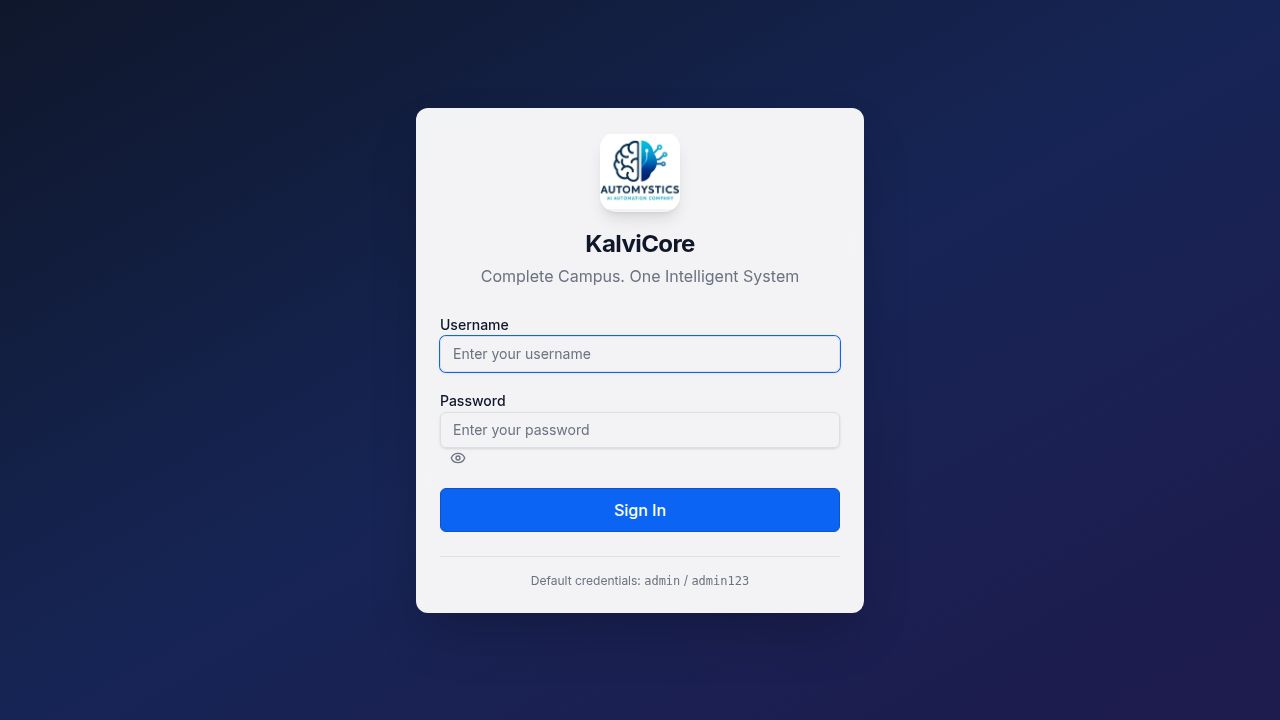
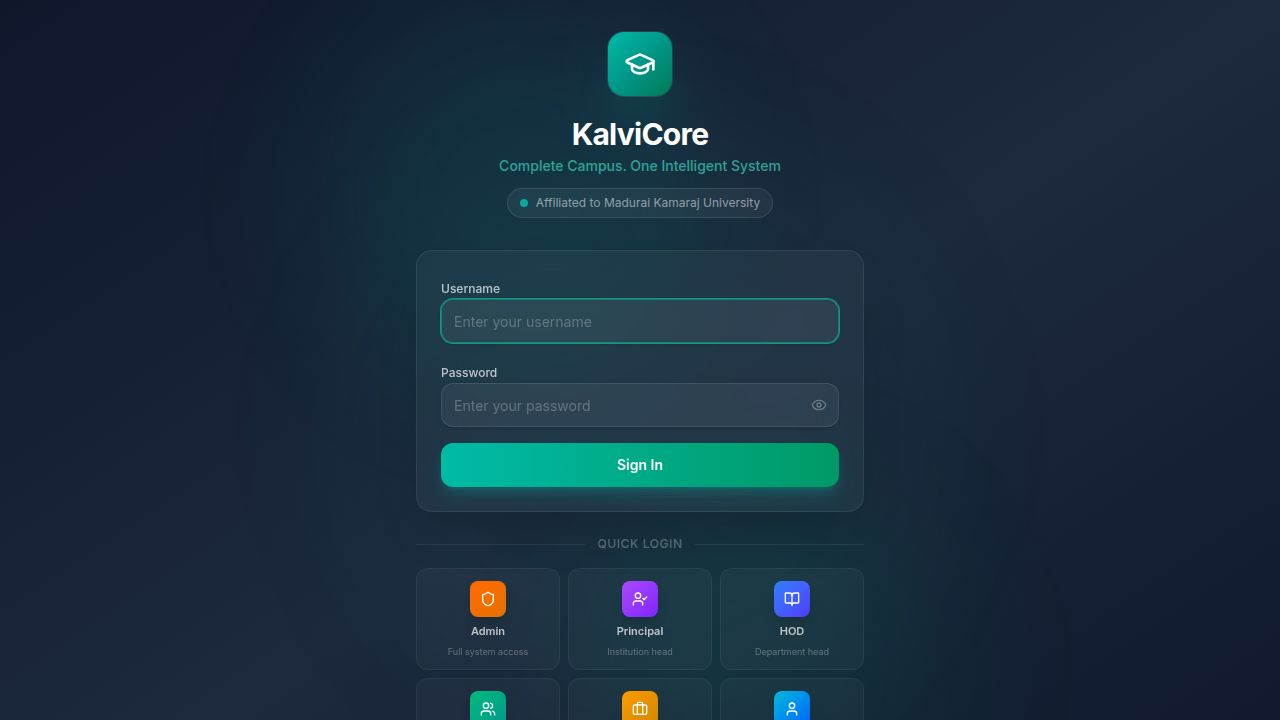
Update college data and redesign the login page with quick login options
Replace engineering departments with arts and science data, update course defaults, and redesign the login page with a modern theme and quick login buttons for various roles.

Replit-Commit-Author: Agent
Replit-Commit-Session-Id: 55929f3b-32f4-48da-ad8b-b4f1d5d6acb3
Replit-Commit-Checkpoint-Type: full_checkpoint
Replit-Commit-Event-Id: a6b4c6db-975b-451b-80cb-aeee288a433f
Replit-Commit-Screenshot-Url: https://storage.googleapis.com/screenshot-production-us-central1/61417559-a3bd-4674-b689-34205fc3aad4/55929f3b-32f4-48da-ad8b-b4f1d5d6acb3/BZeKmPF
Replit-Helium-Checkpoint-Created: true

diff --git a/artifacts/college-cms/src/pages/login.tsx b/artifacts/college-cms/src/pages/login.tsx
@@ -3,8 +3,16 @@ import { useAuth } from "@/contexts/auth";
 import { Button } from "@/components/ui/button";
 import { Input } from "@/components/ui/input";
 import { Label } from "@/components/ui/label";
-import { Card, CardContent, CardDescription, CardHeader, CardTitle } from "@/components/ui/card";
-import { GraduationCap, Loader2, Eye, EyeOff } from "lucide-react";
+import { GraduationCap, Loader2, Eye, EyeOff, Shield, BookOpen, Users, Briefcase, UserCheck, User } from "lucide-react";
+
+const DEMO_ACCOUNTS = [
+  { label: "Admin", username: "college_admin", password: "Admin@123", icon: Shield, color: "from-orange-500 to-amber-600", desc: "Full system access" },
+  { label: "Principal", username: "principal", password: "Principal@123", icon: UserCheck, color: "from-purple-500 to-violet-600", desc: "Institution head" },
+  { label: "HOD", username: "hod_cse", password: "Hod@123", icon: BookOpen, color: "from-blue-500 to-indigo-600", desc: "Department head" },
+  { label: "Faculty", username: "faculty_cse", password: "Faculty@123", icon: Users, color: "from-emerald-500 to-teal-600", desc: "Teaching staff" },
+  { label: "Staff", username: "office_staff", password: "Staff@123", icon: Briefcase, color: "from-amber-500 to-yellow-600", desc: "Office & security" },
+  { label: "Student", username: "student_cse", password: "Student@123", icon: User, color: "from-cyan-500 to-blue-600", desc: "Student portal" },
+];
 
 export default function LoginPage() {
   const { login } = useAuth();
@@ -13,6 +21,7 @@ export default function LoginPage() {
   const [showPassword, setShowPassword] = useState(false);
   const [error, setError] = useState("");
   const [loading, setLoading] = useState(false);
+  const [loadingRole, setLoadingRole] = useState<string | null>(null);
 
   const handleSubmit = async (e: React.FormEvent) => {
     e.preventDefault();
@@ -27,50 +36,123 @@ export default function LoginPage() {
     }
   };
 
+  const handleQuickLogin = async (account: typeof DEMO_ACCOUNTS[0]) => {
+    setError("");
+    setLoadingRole(account.label);
+    try {
+      await login(account.username, account.password);
+    } catch (err: any) {
+      setError(err.message || "Invalid credentials");
+    } finally {
+      setLoadingRole(null);
+    }
+  };
+
   return (
-    <div className="min-h-screen flex items-center justify-center bg-gradient-to-br from-slate-900 via-blue-950 to-indigo-950 p-4">
[1 lines of base64/hex data omitted]
-      <Card className="w-full max-w-md relative z-10 shadow-2xl border-0 bg-card/95 backdrop-blur">
-        <CardHeader className="text-center space-y-4 pb-2">
-          <div className="mx-auto w-20 h-20 rounded-2xl overflow-hidden shadow-lg">
-            <img src={`${import.meta.env.BASE_URL}logo.jpeg`} alt="Automystics Logo" className="w-full h-full object-contain" />
+    <div className="min-h-screen flex flex-col bg-gradient-to-br from-slate-900 via-slate-800 to-slate-900 relative overflow-hidden">
+      <div className="absolute inset-0">
+        <div className="absolute top-0 left-1/4 w-96 h-96 bg-teal-500/10 rounded-full blur-3xl" />
+        <div className="absolute bottom-0 right-1/4 w-96 h-96 bg-emerald-500/8 rounded-full blur-3xl" />
+        <div className="absolute top-1/2 left-1/2 -translate-x-1/2 -translate-y-1/2 w-[600px] h-[600px] bg-teal-600/5 rounded-full blur-3xl" />
+      </div>
+
+      <div className="relative z-10 flex-1 flex flex-col items-center justify-center px-4 py-8">
+        <div className="text-center mb-8">
+          <div className="inline-flex items-center justify-center w-16 h-16 bg-gradient-to-br from-teal-500 via-teal-600 to-emerald-700 rounded-2xl shadow-2xl shadow-teal-500/30 ring-1 ring-white/10 mb-5">
+            <GraduationCap className="w-8 h-8 text-white" />
           </div>
-          <div>
-            <CardTitle className="text-2xl font-bold">KalviCore</CardTitle>
-            <CardDescription className="text-base mt-1">Complete Campus. One Intelligent System</CardDescription>
+          <h1 className="text-3xl font-bold text-white tracking-tight">KalviCore</h1>
+          <p className="text-teal-300/60 text-sm font-medium mt-1">Complete Campus. One Intelligent System</p>
+          <div className="mt-3 inline-flex items-center gap-2 px-3 py-1.5 bg-white/5 rounded-full border border-white/10">
+            <span className="w-2 h-2 rounded-full bg-teal-400 animate-pulse" />
+            <span className="text-xs text-white/50">Affiliated to Madurai Kamaraj University</span>
           </div>
-        </CardHeader>
-        <CardContent className="pt-4">
-          <form onSubmit={handleSubmit} className="space-y-4">
-            {error && (
-              <div className="bg-destructive/10 text-destructive text-sm p-3 rounded-lg border border-destructive/20">
-                {error}
+        </div>
+
+        <div className="w-full max-w-md">
+          <div className="bg-white/[0.04] backdrop-blur-xl rounded-2xl border border-white/[0.08] shadow-2xl shadow-black/20 p-6">
+            <form onSubmit={handleSubmit} className="space-y-4">
+              {error && (
+                <div className="bg-red-500/10 text-red-400 text-sm p-3 rounded-xl border border-red-500/20">
+                  {error}
+                </div>
+              )}
+              <div className="space-y-1.5">
+                <Label className="text-white/70 text-xs font-medium">Username</Label>
+                <Input
+                  placeholder="Enter your username"
+                  value={username}
+                  onChange={(e) => setUsername(e.target.value)}
+                  autoComplete="username"
+                  autoFocus
+                  required
+                  className="bg-white/[0.06] border-white/[0.1] text-white placeholder:text-white/25 focus:border-teal-500/50 focus:ring-teal-500/20 h-11 rounded-xl"
+                />
               </div>
-            )}
-            <div className="space-y-2">
-              <Label htmlFor="username">Username</Label>
-              <Input id="username" placeholder="Enter your username" value={username} onChange={(e) => setUsername(e.target.value)} autoComplete="username" autoFocus required />
-            </div>
-            <div className="space-y-2">
-              <Label htmlFor="password">Password</Label>
-              <div className="relative">
-                <Input id="password" type={showPassword ? "text" : "password"} placeholder="Enter your password" value={password} onChange={(e) => setPassword(e.target.value)} autoComplete="current-password" required />
-                <Button type="button" variant="ghost" size="icon" className="absolute right-0 top-0 h-full px-3 hover:bg-transparent" onClick={() => setShowPassword(!showPassword)}>
-                  {showPassword ? <EyeOff className="h-4 w-4 text-muted-foreground" /> : <Eye className="h-4 w-4 text-muted-foreground" />}
-                </Button>
+              <div className="space-y-1.5">
+                <Label className="text-white/70 text-xs font-medium">Password</Label>
+                <div className="relative">
+                  <Input
+                    type={showPassword ? "text" : "password"}
+                    placeholder="Enter your password"
+                    value={password}
+                    onChange={(e) => setPassword(e.target.value)}
+                    autoComplete="current-password"
+                    required
+                    className="bg-white/[0.06] border-white/[0.1] text-white placeholder:text-white/25 focus:border-teal-500/50 focus:ring-teal-500/20 h-11 rounded-xl pr-11"
+                  />
+                  <button
+                    type="button"
+                    className="absolute right-3 top-1/2 -translate-y-1/2 text-white/30 hover:text-white/60 transition-colors"
+                    onClick={() => setShowPassword(!showPassword)}
+                  >
+                    {showPassword ? <EyeOff className="h-4 w-4" /> : <Eye className="h-4 w-4" />}
+                  </button>
+                </div>
               </div>
-            </div>
-            <Button type="submit" className="w-full h-11 text-base" disabled={loading}>
-              {loading ? <><Loader2 className="mr-2 h-4 w-4 animate-spin" /> Signing in...</> : "Sign In"}
-            </Button>
-          </form>
-          <div className="mt-6 pt-4 border-t">
-            <p className="text-xs text-muted-foreground text-center">
-              Default credentials: <span className="font-mono font-medium">admin</span> / <span className="font-mono font-medium">admin123</span>
-            </p>
+              <Button
+                type="submit"
+                className="w-full h-11 text-sm font-semibold bg-gradient-to-r from-teal-500 to-emerald-600 hover:from-teal-600 hover:to-emerald-700 text-white rounded-xl shadow-lg shadow-teal-500/25 border-0 transition-all duration-200"
+                disabled={loading}
+              >
+                {loading ? <><Loader2 className="mr-2 h-4 w-4 animate-spin" /> Signing in...</> : "Sign In"}
+              </Button>
+            </form>
           </div>
-        </CardContent>
-      </Card>
+
+          <div className="mt-6">
+            <div className="flex items-center gap-3 mb-4">
+              <div className="h-px flex-1 bg-white/[0.08]" />
+              <span className="text-xs text-white/30 font-medium uppercase tracking-wider">Quick Login</span>
+              <div className="h-px flex-1 bg-white/[0.08]" />
+            </div>
+            <div className="grid grid-cols-3 gap-2">
+              {DEMO_ACCOUNTS.map((account) => (
+                <button
+                  key={account.label}
+                  onClick={() => handleQuickLogin(account)}
+                  disabled={loadingRole !== null}
+                  className="group relative flex flex-col items-center gap-1.5 p-3 rounded-xl bg-white/[0.03] border border-white/[0.06] hover:bg-white/[0.07] hover:border-white/[0.12] transition-all duration-200 disabled:opacity-50"
+                >
+                  <div className={`w-9 h-9 rounded-lg bg-gradient-to-br ${account.color} flex items-center justify-center shadow-lg group-hover:scale-105 transition-transform`}>
+                    {loadingRole === account.label ? (
+                      <Loader2 className="w-4 h-4 text-white animate-spin" />
+                    ) : (
+                      <account.icon className="w-4 h-4 text-white" />
+                    )}
+                  </div>
+                  <span className="text-[11px] font-semibold text-white/70 group-hover:text-white/90 transition-colors">{account.label}</span>
+                  <span className="text-[9px] text-white/30 leading-tight">{account.desc}</span>
+                </button>
+              ))}
+            </div>
+          </div>
+        </div>
+
+        <p className="mt-8 text-[11px] text-white/20 text-center">
+          KalviCore College Management System &middot; MK University
+        </p>
+      </div>
     </div>
   );
 }

diff --git a/artifacts/college-cms/src/pages/courses.tsx b/artifacts/college-cms/src/pages/courses.tsx
@@ -100,7 +100,7 @@ function CourseDialog({ course, open, onOpenChange, trigger }: any) {
 
   const form = useForm({
     resolver: zodResolver(formSchema),
-    defaultValues: { name: course?.name || "", code: course?.code || "", departmentId: course?.departmentId || 0, duration: course?.duration || 4, degree: course?.degree || "B.E.", regulation: course?.regulation || "Regulation 2021", affiliatedUniversity: course?.affiliatedUniversity || "Anna University", totalSemesters: course?.totalSemesters || 8 },
+    defaultValues: { name: course?.name || "", code: course?.code || "", departmentId: course?.departmentId || 0, duration: course?.duration || 3, degree: course?.degree || "B.Sc", regulation: course?.regulation || "Regulation 2021", affiliatedUniversity: course?.affiliatedUniversity || "Madurai Kamaraj University", totalSemesters: course?.totalSemesters || 6 },
   });
 
   const onSubmit = (data: any) => {
@@ -123,11 +123,11 @@ function CourseDialog({ course, open, onOpenChange, trigger }: any) {
               <FormField control={form.control} name="code" render={({ field }) => (<FormItem><FormLabel>Code *</FormLabel><FormControl><Input {...field} /></FormControl><FormMessage /></FormItem>)} />
               <FormField control={form.control} name="name" render={({ field }) => (<FormItem><FormLabel>Name *</FormLabel><FormControl><Input {...field} /></FormControl><FormMessage /></FormItem>)} />
               <FormField control={form.control} name="departmentId" render={({ field }) => (<FormItem><FormLabel>Department *</FormLabel><Select onValueChange={(v) => field.onChange(Number(v))} value={String(field.value)}><FormControl><SelectTrigger><SelectValue placeholder="Select" /></SelectTrigger></FormControl><SelectContent>{departments?.map(d => <SelectItem key={d.id} value={String(d.id)}>{d.name}</SelectItem>)}</SelectContent></Select><FormMessage /></FormItem>)} />
-              <FormField control={form.control} name="degree" render={({ field }) => (<FormItem><FormLabel>Degree *</FormLabel><Select onValueChange={field.onChange} value={field.value}><FormControl><SelectTrigger><SelectValue /></SelectTrigger></FormControl><SelectContent><SelectItem value="B.E.">B.E.</SelectItem><SelectItem value="B.Tech">B.Tech</SelectItem><SelectItem value="M.E.">M.E.</SelectItem><SelectItem value="M.Tech">M.Tech</SelectItem><SelectItem value="MBA">MBA</SelectItem><SelectItem value="MCA">MCA</SelectItem><SelectItem value="B.Sc">B.Sc</SelectItem><SelectItem value="M.Sc">M.Sc</SelectItem></SelectContent></Select><FormMessage /></FormItem>)} />
+              <FormField control={form.control} name="degree" render={({ field }) => (<FormItem><FormLabel>Degree *</FormLabel><Select onValueChange={field.onChange} value={field.value}><FormControl><SelectTrigger><SelectValue /></SelectTrigger></FormControl><SelectContent><SelectItem value="B.A.">B.A.</SelectItem><SelectItem value="B.Sc">B.Sc</SelectItem><SelectItem value="B.Com">B.Com</SelectItem><SelectItem value="B.C.A">B.C.A</SelectItem><SelectItem value="M.A.">M.A.</SelectItem><SelectItem value="M.Sc">M.Sc</SelectItem><SelectItem value="M.Com">M.Com</SelectItem><SelectItem value="M.C.A">M.C.A</SelectItem><SelectItem value="M.Phil">M.Phil</SelectItem><SelectItem value="Ph.D">Ph.D</SelectItem></SelectContent></Select><FormMessage /></FormItem>)} />
               <FormField control={form.control} name="duration" render={({ field }) => (<FormItem><FormLabel>Duration (years) *</FormLabel><FormControl><Input type="number" {...field} onChange={e => field.onChange(Number(e.target.value))} /></FormControl><FormMessage /></FormItem>)} />
               <FormField control={form.control} name="totalSemesters" render={({ field }) => (<FormItem><FormLabel>Total Semesters *</FormLabel><FormControl><Input type="number" {...field} onChange={e => field.onChange(Number(e.target.value))} /></FormControl><FormMessage /></FormItem>)} />
               <FormField control={form.control} name="regulation" render={({ field }) => (<FormItem><FormLabel>Regulation *</FormLabel><FormControl><Input {...field} /></FormControl><FormMessage /></FormItem>)} />
-              <FormField control={form.control} name="affiliatedUniversity" render={({ field }) => (<FormItem><FormLabel>Affiliated University *</FormLabel><Select onValueChange={field.onChange} value={field.value}><FormControl><SelectTrigger><SelectValue /></SelectTrigger></FormControl><SelectContent><SelectItem value="Anna University">Anna University</SelectItem><SelectItem value="Madurai Kamaraj University">Madurai Kamaraj University</SelectItem><SelectItem value="Bharathidasan University">Bharathidasan University</SelectItem><SelectItem value="Bharathiar University">Bharathiar University</SelectItem></SelectContent></Select><FormMessage /></FormItem>)} />
+              <FormField control={form.control} name="affiliatedUniversity" render={({ field }) => (<FormItem><FormLabel>Affiliated University *</FormLabel><Select onValueChange={field.onChange} value={field.value}><FormControl><SelectTrigger><SelectValue /></SelectTrigger></FormControl><SelectContent><SelectItem value="Madurai Kamaraj University">Madurai Kamaraj University</SelectItem><SelectItem value="Bharathidasan University">Bharathidasan University</SelectItem><SelectItem value="Bharathiar University">Bharathiar University</SelectItem><SelectItem value="Anna University">Anna University</SelectItem></SelectContent></Select><FormMessage /></FormItem>)} />
             </div>
             <DialogFooter><Button type="submit" disabled={createMutation.isPending || updateMutation.isPending}>Save</Button></DialogFooter>
           </form>

diff --git a/artifacts/college-cms/src/pages/bulk-import.tsx b/artifacts/college-cms/src/pages/bulk-import.tsx
@@ -64,7 +64,7 @@ export default function BulkImportPage() {
 
   const downloadTemplate = (type: string) => {
     const templates: Record<string, string> = {
-      students: "firstName,lastName,rollNumber,email,phone,departmentId,courseId,year,semester,admissionType,community,gender,dateOfBirth,admissionDate,address,fatherName,guardianPhone\nJohn,Doe,21CSE001,john@example.com,9876543210,1,1,1,1,Government,OC,Male,2003-05-15,2021-08-01,Chennai,James Doe,9876543211",
+      students: "firstName,lastName,rollNumber,email,phone,departmentId,courseId,year,semester,admissionType,community,gender,dateOfBirth,admissionDate,address,fatherName,guardianPhone\nJohn,Doe,21TAM001,john@example.com,9876543210,1,1,1,1,Government,OC,Male,2003-05-15,2021-08-01,Madurai,James Doe,9876543211",
       staff: "firstName,lastName,staffId,email,phone,departmentId,designation,qualification,specialization,experience,salary,joiningDate,gender,employmentType\nSmith,Kumar,FAC001,smith@college.edu,9876543210,1,Professor,Ph.D,AI & ML,15,120000,2020-06-01,Male,Permanent",
     };
     const blob = new Blob([templates[type] || ""], { type: "text/csv" });

diff --git a/artifacts/college-cms/src/pages/parent-portal.tsx b/artifacts/college-cms/src/pages/parent-portal.tsx
@@ -76,7 +76,7 @@ export default function ParentPortalPage() {
               {error && <div className="bg-destructive/10 text-destructive text-sm p-3 rounded-lg border border-destructive/20">{error}</div>}
               <div className="space-y-2">
                 <Label>Student Roll Number</Label>
-                <Input value={rollNumber} onChange={e => setRollNumber(e.target.value)} placeholder="e.g., 21CSE001" required />
+                <Input value={rollNumber} onChange={e => setRollNumber(e.target.value)} placeholder="e.g., 21TAM001" required />
               </div>
               <div className="space-y-2">
                 <Label>Guardian Phone Number</Label>

diff --git a/replit.md b/replit.md
@@ -22,7 +22,7 @@ A comprehensive College Management System built for Tamil Nadu, India. Full-stac
 ### Core Academic
 1. **Dashboard** — Overview with student/staff counts, department strength chart, fee collection summary, recent activity
 2. **Departments** — Department CRUD with HOD, contact info, established year
-3. **Courses** — Anna University regulation-wise courses, affiliated university, degree programs (B.E., B.Tech, M.E., MBA, MCA)
+3. **Courses** — MK University regulation-wise courses, affiliated university, degree programs (B.A., B.Sc, B.Com, B.C.A, M.A., M.Sc, M.Com, M.C.A, M.Phil, Ph.D)
 4. **Subjects** — Curriculum management with course mapping, credits, type (Theory/Lab/Elective), staff assignment
 5. **Timetable** — Department/semester-wise timetable management with day, period, subject, staff, room allocation
 6. **Assignments** — Assignment creation, student submissions tracking, grading with marks and grade calculation
@@ -129,7 +129,9 @@ Enterprise-level sidebar with search, multicolor group indicators: Overview (blu
 - **Users API**: `/api/users` (CRUD, requires Admin+ role)
 - **Token injection**: `setAuthTokenGetter()` from `@workspace/api-client-react` auto-attaches Bearer tokens to all generated API hooks
 - **Default admin**: Seed via `POST /api/auth/seed-admin` (dev only), username: `admin`, password: `admin123`
-- **Pre-created users**: college_admin/Admin@123, principal/Principal@123, hod_cse/hod_ece/hod_mech (Hod@123), faculty_cse/faculty_ece (Faculty@123), office_staff/Staff@123, student_cse/Student@123
+- **College type**: Arts & Science College affiliated to Madurai Kamaraj University
+- **Departments**: Tamil(1), English(2), Mathematics(3), Physics(4), Chemistry(5), Computer Science(6), Commerce(7), Economics(8), History(9), Botany(10), Zoology(11), Political Science(12)
+- **Pre-created users**: college_admin/Admin@123, principal/Principal@123, hod_cse/hod_ece/hod_mech (Hod@123, depts 1/2/3), faculty_cse/faculty_ece (Faculty@123, depts 1/2), office_staff/Staff@123, student_cse/Student@123
 - **RBAC permissions**: Granular per-module permissions (reports, calendar, fundraising, visitors, placements, id_cards, print_templates, dashboard_settings, notifications) — Students see ~10 items, Faculty ~15, HOD ~18, Admin/Principal full access
 - **Notification scoping**: Faculty/HOD auto-scoped to their department; Admin/Principal can target all or by department
 
